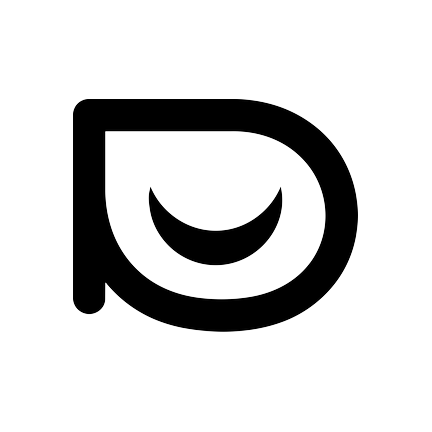
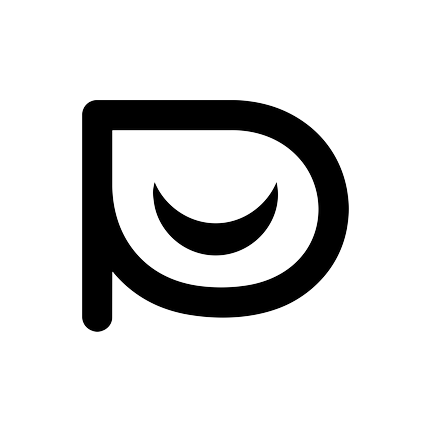
revert: Tab-Leisten-Umbau zurück; Faktoren auf ganze Zahlen
Der GlassContainer-Umbau (54677bb) hat den Morph-Effekt zwar erzeugt, die
Leiste dabei aber kantig gemacht und die Hervorhebung durch einen
wandernden Punkt ersetzt. Auf dem Gerät deutlich schlechter als vorher —
komplett zurückgenommen.

Weiter:
- Faktoren: ×1,5 raus, nur noch ×1/×2/×3.
- Aktionsliste: Faktoren wieder in der Zeitraum-Zeile, als Kurzform
  (K×2 M×3) statt eigener Marken-Reihe — die verdoppelte die Zeilenhöhe.
- Logo auf 68 % (statt 74 %), Strich 180 Einheiten unter den Bauch.

Build 26.

diff --git a/mobile/components/TabBar.tsx b/mobile/components/TabBar.tsx
@@ -1,7 +1,7 @@
-import { View, Pressable, StyleSheet, AccessibilityInfo, Animated } from 'react-native';
-import { useState, useEffect, useRef } from 'react';
+import { View, Pressable, StyleSheet, AccessibilityInfo } from 'react-native';
+import { useState, useEffect } from 'react';
 import { BlurView } from 'expo-blur';
-import { GlassView, GlassContainer, isLiquidGlassAvailable } from 'expo-glass-effect';
+import { GlassView, isLiquidGlassAvailable } from 'expo-glass-effect';
 import { useRouter } from 'expo-router';
 import { useSafeAreaInsets } from 'react-native-safe-area-context';
 import { PP, isAndroid, ripple, surfaceElevation } from '../lib/theme';
@@ -93,23 +93,6 @@ export function GlassTabBar({ state, navigation }: TabBarProps) {
     }
   };
 
-  // Wandernde Glaskachel: Position und Breite müssen VOR jedem frühen return
-  // berechnet werden — Hooks dürfen nie bedingt laufen (Android kehrt gleich zurück).
-  const activeIndex = slots.findIndex((s2) => !s2.modal && activeName === s2.name);
-  const [barWidth, setBarWidth] = useState(0);
-  const slotWidth = barWidth > 0 ? (barWidth - 8) / slots.length : 0;
-  const pill = useRef(new Animated.Value(0)).current;
-  useEffect(() => {
-    if (activeIndex < 0 || slotWidth === 0) return;
-    Animated.spring(pill, {
-      toValue: 4 + activeIndex * slotWidth,
-      useNativeDriver: false,
-      damping: 18,
-      stiffness: 180,
-      mass: 0.9,
-    }).start();
-  }, [activeIndex, slotWidth]);
-
   // --- Android: MD3 Navigation Bar -----------------------------------------
   if (isAndroid) {
     return (
@@ -138,12 +121,7 @@ export function GlassTabBar({ state, navigation }: TabBarProps) {
   }
 
   // --- iOS: schwebendes Glas ------------------------------------------------
-  // Der Morph-Effekt beim Tab-Wechsel entsteht NICHT aus einer einzelnen
-  // GlassView: Zwei Glasflächen innerhalb eines GlassContainer verschmelzen,
-  // sobald sie sich näher kommen als `spacing` — das ist das Fließen. Deshalb
-  // liegt hier eine wandernde Kachel über der Leiste, beide aus Glas.
   const bottom = Math.max(insets.bottom, 12);
-
   const items = slots.map((slot) => {
     const isActive = !slot.modal && activeName === slot.name;
     const color = isActive ? PP.teal : PP.ink3;
@@ -163,43 +141,26 @@ export function GlassTabBar({ state, navigation }: TabBarProps) {
     );
   });
 
-  if (!glass) {
-    return (
-      <View pointerEvents="box-none" style={[styles.host, { bottom }]}>
+  return (
+    <View pointerEvents="box-none" style={[styles.host, { bottom }]}>
+      {/* colorScheme bleibt auf 'auto': mit 'light' erzeugt iOS ein helles Glas,
+          das auf unserem hellen Hintergrund praktisch unsichtbar ist — der Effekt
+          greift, nur sieht man ihn nicht. Der leichte Tint gibt dem Material
+          zusätzlich Kante, ohne es zuzukleistern. */}
+      {glass ? (
+        <GlassView
+          glassEffectStyle="regular"
+          isInteractive
+          tintColor="rgba(255,255,255,0.30)"
+          style={[styles.bar, styles.barGlass]}
+        >
+          {items}
+        </GlassView>
+      ) : (
         <BlurView intensity={60} tint="light" style={[styles.bar, styles.barBlur]}>
           {items}
         </BlurView>
-      </View>
-    );
-  }
-
-  return (
-    <View pointerEvents="box-none" style={[styles.host, { bottom }]}>
-      {/* spacing bestimmt, ab welchem Abstand die Kachel mit der Leiste
-          verschmilzt — großzügig gewählt, damit das Fließen sichtbar wird. */}
-      <GlassContainer spacing={28} style={styles.bar} onLayout={(e) => setBarWidth(e.nativeEvent.layout.width)}>
-        <GlassView glassEffectStyle="regular" style={StyleSheet.absoluteFill} />
-        {activeIndex >= 0 && slotWidth > 0 && (
-          <Animated.View
-            pointerEvents="none"
-            style={{
-              position: 'absolute',
-              left: pill,
-              top: 6,
-              width: slotWidth,
-              height: 52,
-            }}
-          >
-            <GlassView
-              glassEffectStyle="regular"
-              isInteractive
-              tintColor="rgba(39,176,146,0.22)"
-              style={{ flex: 1, borderRadius: 20 }}
-            />
-          </Animated.View>
-        )}
-        <View style={styles.row}>{items}</View>
-      </GlassContainer>
+      )}
     </View>
   );
 }
@@ -209,11 +170,6 @@ const styles = StyleSheet.create({
     position: 'absolute',
     left: 12,
     right: 12,
-  },
-  row: {
-    flex: 1,
-    flexDirection: 'row',
-    alignItems: 'center',
   },
   bar: {
     height: 64,

diff --git a/mobile/app/(visitor)/admin/actions.tsx b/mobile/app/(visitor)/admin/actions.tsx
@@ -11,7 +11,8 @@ import { Screen, PPHeader, PPText, Card, Field, PPButton, SectionTitle, IconButt
 import type { Campaign, Badge } from '../../../lib/types';
 import { useGoBack } from '../../../lib/hooks/useGoBack';
 
-const FACTORS = [1, 1.5, 2, 3]; // 1 = kein Bonus
+const FACTORS = [1, 2, 3]; // 1 = kein Bonus. Ganze Zahlen: schnell zu erfassen,
+// ×1,5 war in der Praxis weder nötig noch auf einen Blick lesbar.
 
 // Kompakte Zusammenfassung der aktiven Typen für die Listendarstellung.
 function factorLabel(m: number): string {
@@ -250,19 +251,20 @@ export default function ActionsAdmin() {
                   </View>
                   <View style={{ flex: 1, minWidth: 0 }}>
                     <PPText weight="semibold" size={PP.fontSizes.md} color={PP.ink}>{c.name}</PPText>
-                    {/* Zeitraum und Faktoren getrennt: zusammen in einer Zeile
-                        wurden die Faktoren abgeschnitten — gerade die will man
-                        aber auf einen Blick sehen. */}
+                    {/* Zeitraum und Faktoren in einer Zeile — die Faktoren als
+                        Kurzform (K/M/B ×N), damit sie sichtbar bleiben, ohne die
+                        Zeile zu verdoppeln. */}
                     <PPText size={PP.fontSizes.sm} color={PP.ink2} numberOfLines={1}>
                       {formatDE(parseDate(c.starts_at))} – {formatDE(parseDate(c.ends_at))}
+                      {campaignFactorRows(c).length > 0 && (
+                        <PPText size={PP.fontSizes.sm} color={PP.teal}>
+                          {'  ·  '}
+                          {campaignFactorRows(c)
+                            .map((f) => `${f.label.charAt(0)}×${factorLabel(f.factor)}`)
+                            .join(' ')}
+                        </PPText>
+                      )}
                     </PPText>
-                    <View style={{ flexDirection: 'row', flexWrap: 'wrap', gap: 4, marginTop: 4 }}>
-                      {campaignFactorRows(c).map((f) => (
-                        <Pill key={f.label} size="s" color={PP.teal} bg="rgba(39,176,146,0.12)">
-                          {f.label} ×{factorLabel(f.factor)}
-                        </Pill>
-                      ))}
-                    </View>
                   </View>
                   {isActive(c) && <Pill size="s" color={PP.teal} bg="rgba(39,176,146,0.12)">aktiv</Pill>}
                   <Icon name={openId === c.id ? 'chevron-down' : 'chevron-right'} size={18} color={PP.ink3} />

diff --git a/CHANGELOG.md b/CHANGELOG.md
@@ -16,8 +16,13 @@ Versionierung: `App-Version (Build)` — TestFlight-Builds fortlaufend nummerier
 ### Behoben
 - **Ankündigung ließ sich nicht von einer Aktion lösen:** Wer die Zuordnung auf „Eigenständig" stellte, sah die Änderung gespeichert — tatsächlich blieb die alte Verknüpfung bestehen, und die Ankündigung blieb unsichtbar. Ursache: Das leere Feld wurde beim Speichern verschluckt statt übertragen.
 
+### Geändert
+- **Aktions-Faktoren nur noch ×1, ×2, ×3:** Der Zwischenschritt ×1,5 war weder nötig noch auf einen Blick zu erfassen. Ganze Zahlen gehen schneller von der Hand.
+- **Aktionsliste kompakter:** Zeitraum und Faktoren stehen wieder in einer Zeile, die Faktoren als Kurzform (K×2 M×3) — sichtbar, ohne die Zeilenhöhe zu verdoppeln.
+- **App-Symbol feiner abgestimmt:** etwas kleiner als zuletzt, der senkrechte Strich ragt ein Stück unter den Bauch.
+
 ### Behoben (Darstellung)
-- **Liquid Glass beim Tab-Wechsel:** Der fließende Übergang blieb aus, weil die Leiste aus einer einzigen Glasfläche bestand. Der Effekt entsteht erst, wenn zwei Glasflächen in einem gemeinsamen Rahmen einander nahe kommen und verschmelzen. Die Leiste hat jetzt eine wandernde Kachel, die beim Tabwechsel zum gewählten Bereich fließt.
+- **Tab-Leiste unverändert gelassen:** Ein Versuch, den fließenden Übergang beim Tabwechsel nachzubauen, machte die Leiste kantig und ersetzte die Hervorhebung durch einen wandernden Punkt — schlechter als vorher. Zurückgenommen.
 - **Aktions-Übersicht zeigt die Faktoren wieder:** Faktoren und Zeitraum standen zusammen in einer Zeile, die abgeschnitten wurde — ausgerechnet die Faktoren fielen weg. Jetzt stehen sie als eigene Marken darunter und sind auf einen Blick lesbar.
 - **„Name speichern" wie die anderen Knöpfe:** Der Knopf war farblos, während „E-Mail ändern" und „Passwort ändern" daneben eingefärbt sind.
 

diff --git a/TECH.md b/TECH.md
@@ -1,6 +1,6 @@
 # Plietsche Plünn — Technischer Steckbrief
 
-Stand: 3. August 2026 · App-Version 1.0.0 (Build 25)
+Stand: 3. August 2026 · App-Version 1.0.0 (Build 26)
 
 ---
 
